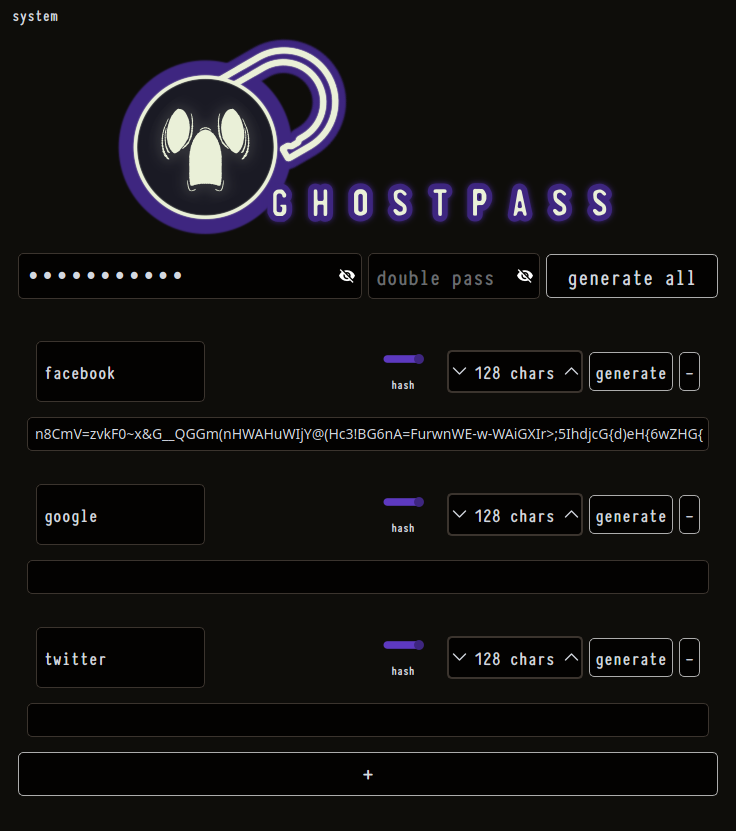
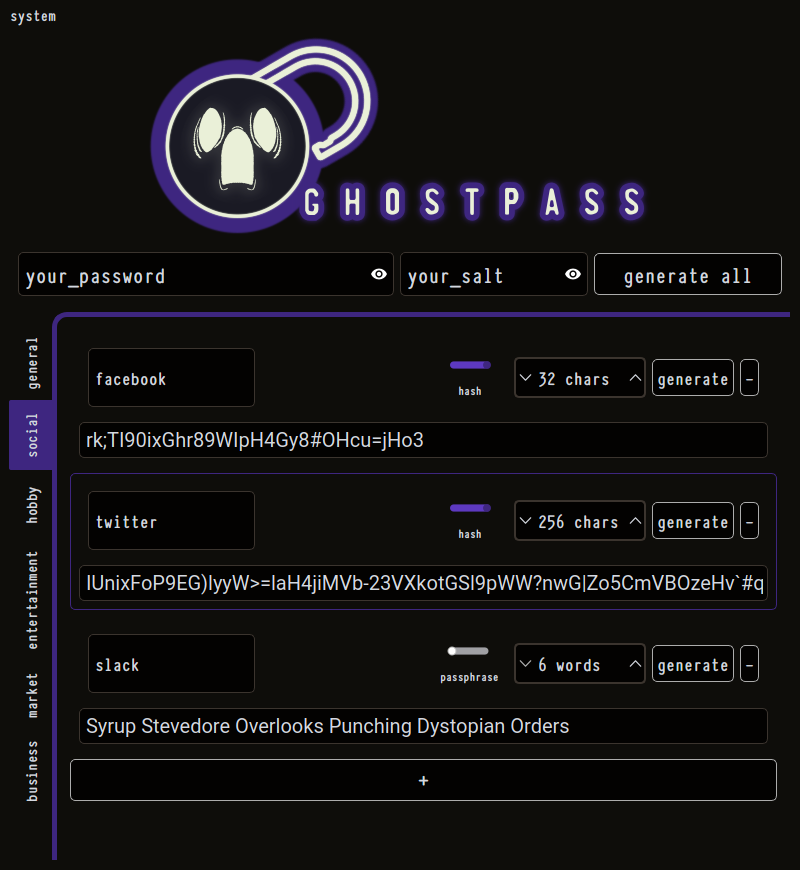
Tweaked size and retook demo screenshot

Changed region(s): [[0.0, 0.0301, 1.0, 0.9928], [0.0, 0.0, 0.0938, 0.0301]]

diff --git a/ghostpass.py b/ghostpass.py
@@ -43,7 +43,7 @@ class cls_main_window(qtw.QMainWindow):
             self.resize(qtc.QSize(int(temp_size[0]),int(temp_size[1])))
             del temp_size
         except (TypeError, AttributeError):
-            self.resize(qtc.QSize(600, 900)) # Default size if no settings are found
+            self.resize(qtc.QSize(800, 1000)) # Default size if no settings are found
         self.setMinimumSize(qtc.QSize(600, 400))
 
         self.font_typewriter = fontghost.fontghost.typewriter(13)
